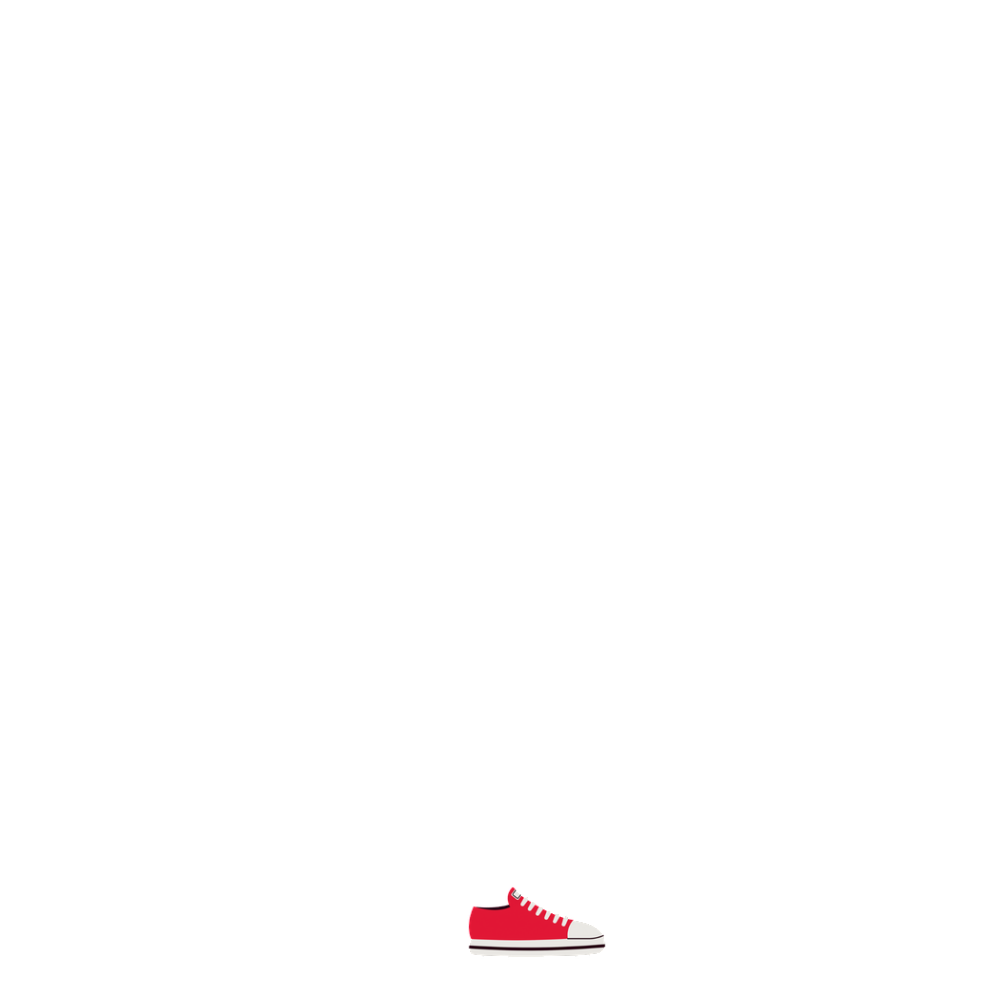
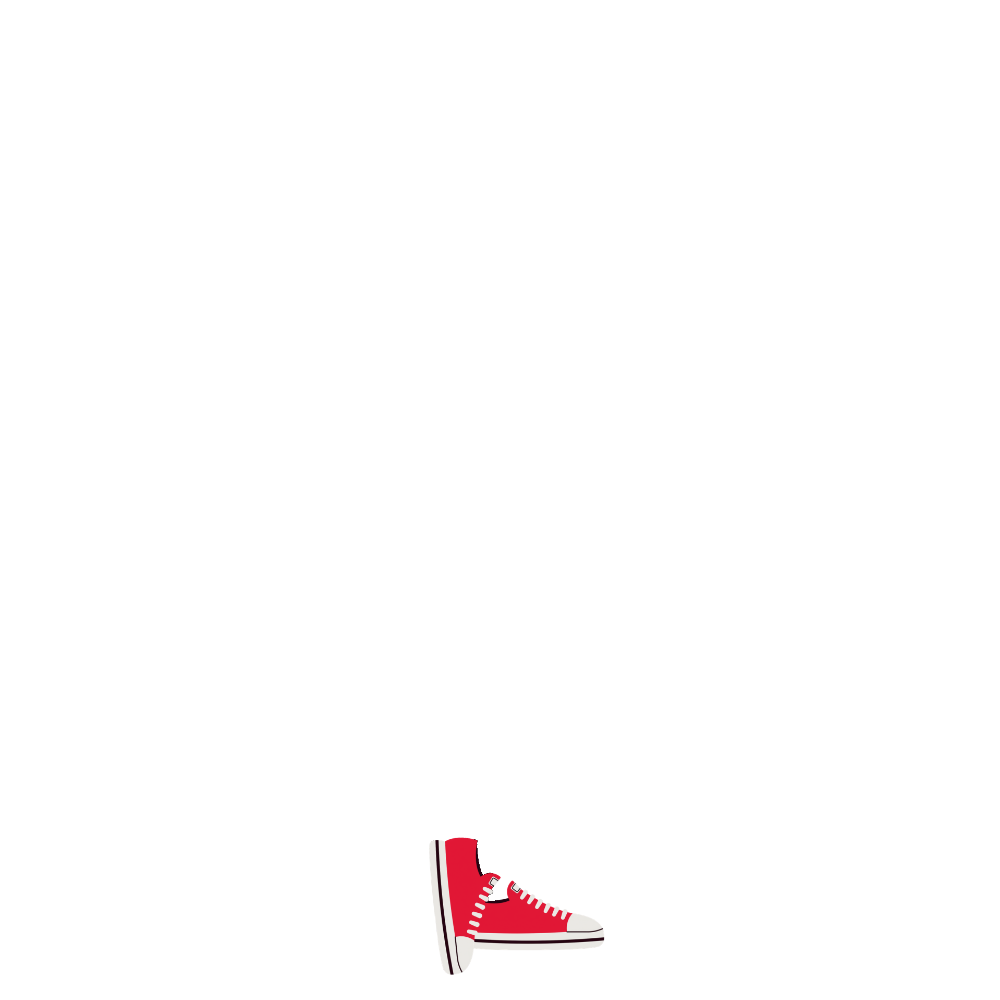
Presto electric guitar and ukulele: crossed-leg shoes, legs whole behind them
Claude-Session: https://claude.ai/code/session_01QFxDJgKewBc976sQiVPuU3

Changed region(s): [[0.403, 0.837, 0.62, 0.992]]

diff --git a/app/test/accessory_catalog_test.dart b/app/test/accessory_catalog_test.dart
@@ -194,17 +194,14 @@ void jalapenoOutfitTests() {
       final order = poseDrawOrder(manifest, acc).map((a) => a.split('/').last).toList();
       int at(String f) => order.indexOf(f);
       expect(at('jacket.png'), greaterThan(at('1_pepper_body.png')), reason: pose);
-      if (pose != 'electric_guitar' && pose != 'ukulele') {
-        // legs and feet stay whole, layered behind the sneakers
-        final legs = manifest.layers.firstWhere((l) => l.contains('legs_feet'));
-        expect(at('$legs.png'), greaterThan(at('jacket.png')), reason: pose);
-        expect(at('$legs.png'), lessThan(at('1_sneaker.png')), reason: pose);
-      } else {
-        expect(at('legs_under_sneakers.png'), greaterThan(at('jacket.png')), reason: pose);
-      }
+      // legs and feet stay whole, layered behind the sneakers (crossed-leg poses use Erika's shoe pair as one piece)
+      final crossed = ['acoustic_guitar', 'electric_guitar', 'ukulele'].contains(pose);
+      final legs = manifest.layers.firstWhere((l) => l.contains('legs_feet'));
+      expect(at('$legs.png'), greaterThan(at('jacket.png')), reason: pose);
+      expect(at('$legs.png'), lessThan(at('1_sneaker.png')), reason: pose);
       expect(at('monocle_lens.png'), greaterThan(at('jacket.png')), reason: pose);
       // acoustic guitar: his crossed legs get Erika's pair of shoes as one piece
-      expect(order.where((f) => f.endsWith('_sneaker.png')).length, pose == 'acoustic_guitar' ? 1 : 2, reason: pose);
+      expect(order.where((f) => f.endsWith('_sneaker.png')).length, crossed ? 1 : 2, reason: pose);
       // acoustic guitar is built from Erika's layered PDF (its sleeves are her pieces); see its own test below
       if (pose != 'acoustic_guitar') expect(order.where((f) => f.startsWith('sleeve_')).length, greaterThanOrEqualTo(2), reason: pose);
     }
